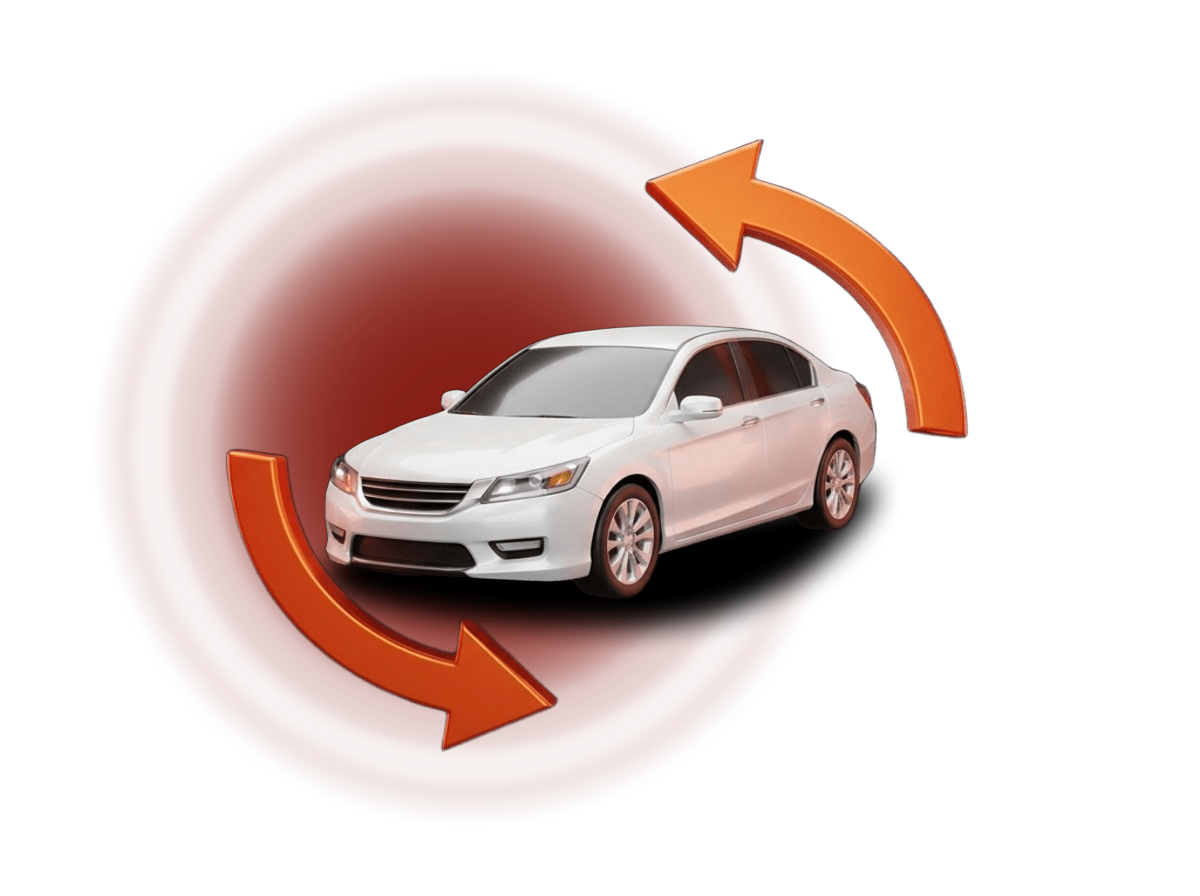
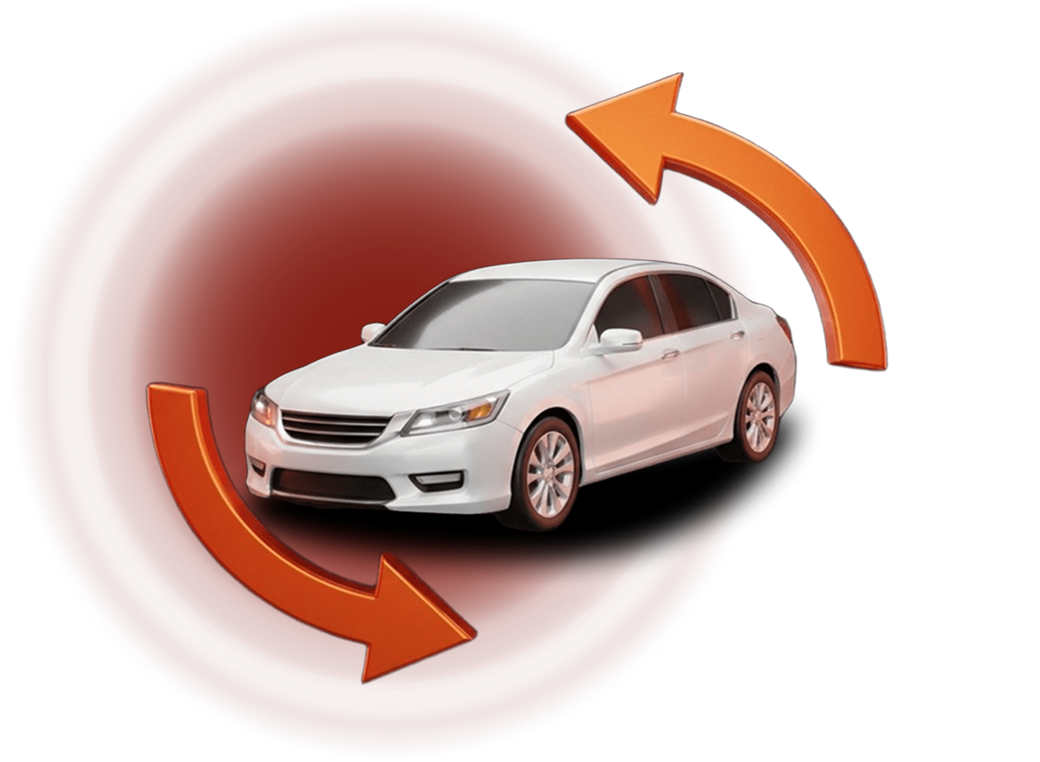
Deploy: коллаж без розового + отступы + sale-значок; новая картинка обмена

diff --git a/css/style.css b/css/style.css
@@ -383,15 +383,15 @@ section{padding:64px 0}
 .sb2-text h3{font-family:var(--font-display);font-size:42px;font-weight:600;line-height:1;letter-spacing:-.02em;margin-bottom:14px}
 .sb2-text h3 span{color:var(--accent)}
 .sb2-text p{opacity:.8;font-size:15px;line-height:1.5;max-width:470px;margin-bottom:22px}
-.sb2-collage{position:relative;align-self:stretch;min-height:340px;border-radius:var(--r);overflow:hidden;background:radial-gradient(120% 120% at 50% 38%,#f7c7ca 0%,#e7a4a9 100%)}
-.sbc-dots{position:absolute;inset:0;background-image:radial-gradient(rgba(0,0,0,.13) 1.2px,transparent 1.2px);background-size:17px 17px;opacity:.55}
-.sbc-panel{position:absolute;border-radius:14px;overflow:hidden;transform:skewX(-9deg);box-shadow:0 14px 32px rgba(0,0,0,.38);background:#1b1b1e}
-.sbc-panel i{position:absolute;inset:-14%;display:block;transform:skewX(9deg);background:#1b1b1e center/cover no-repeat}
-.sbc-p1{width:52%;height:45%;top:6%;left:27%;z-index:2}
-.sbc-p2{width:50%;height:45%;left:2%;bottom:7%;z-index:1}
-.sbc-p3{width:55%;height:58%;right:1%;bottom:11%;z-index:3}
-.sbc-flag{position:absolute;top:13%;left:0;z-index:5;background:var(--accent);color:#fff;width:66px;height:46px;display:flex;align-items:center;justify-content:center;box-shadow:0 8px 20px rgba(0,0,0,.3);clip-path:polygon(0 0,100% 0,100% 100%,0 100%,16% 50%)}
-.sbc-flag svg{width:24px;height:24px}
+.sb2-collage{position:relative;align-self:stretch;min-height:360px;border-radius:var(--r);overflow:hidden;background:transparent}
+.sbc-dots{position:absolute;inset:0;background-image:radial-gradient(rgba(255,255,255,.07) 1.2px,transparent 1.2px);background-size:18px 18px}
+.sbc-panel{position:absolute;border-radius:14px;overflow:hidden;transform:skewX(-9deg);box-shadow:0 16px 34px rgba(0,0,0,.45);background:#202024;border:1px solid rgba(255,255,255,.06)}
+.sbc-panel i{position:absolute;inset:-14%;display:block;transform:skewX(9deg);background:#202024 center/cover no-repeat}
+.sbc-p1{width:42%;height:38%;top:3%;left:33%;z-index:2}
+.sbc-p2{width:40%;height:38%;left:3%;bottom:5%;z-index:1}
+.sbc-p3{width:44%;height:44%;right:2%;bottom:6%;z-index:3}
+.sbc-flag{position:absolute;top:9%;left:0;z-index:5;background:var(--accent);color:#fff;width:70px;height:48px;display:flex;align-items:center;justify-content:center;box-shadow:0 8px 20px rgba(0,0,0,.35);clip-path:polygon(0 0,100% 0,100% 100%,0 100%,16% 50%)}
+.sbc-flag svg{width:26px;height:26px}
 .sbc-price{position:absolute;right:3%;bottom:4%;z-index:6;background:#fff;border-radius:12px;padding:13px 22px;text-align:center;box-shadow:0 12px 28px rgba(0,0,0,.25)}
 .sbc-price span{display:block;font-size:13px;font-weight:600;color:#1b1b1e}
 .sbc-price b{font-family:var(--font-display);font-size:25px;color:var(--accent);line-height:1;white-space:nowrap}

diff --git a/stocks.html b/stocks.html
@@ -40,7 +40,7 @@
     <div class="sbc-panel sbc-p1"><i style="background-image:url('images/cars/car-3-chery-tiggo7.png')"></i></div>
     <div class="sbc-panel sbc-p2"><i style="background-image:url('images/cars/car-2-haval-jolion.png')"></i></div>
     <div class="sbc-panel sbc-p3"><i style="background-image:url('images/cars/car-1-geely-atlas.png')"></i></div>
-    <div class="sbc-flag"><svg viewBox="0 0 24 24" fill="none" stroke="currentColor" stroke-width="2" stroke-linecap="round"><circle cx="12" cy="12" r="9"/><path d="M5.6 5.6 18.4 18.4"/></svg></div>
+    <div class="sbc-flag"><svg viewBox="0 0 24 24" fill="none" stroke="currentColor" stroke-width="2" stroke-linecap="round" stroke-linejoin="round"><path d="M20.6 13.4 13.4 20.6a2 2 0 0 1-2.8 0L2 12V2h10l8.6 8.6a2 2 0 0 1 0 2.8z"/><circle cx="7" cy="7" r="1.4"/></svg></div>
     <div class="sbc-price"><span>за</span><b>2 490 000 ₽</b></div>
   </div>
 </div>